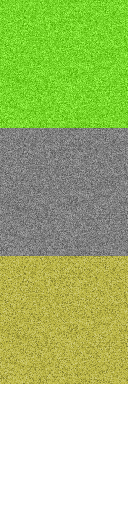
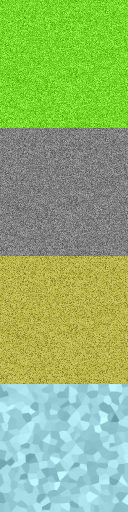
GameObject goes to mouse position on right click
Still an issue with clamping of GameObjects, they move while Terrain
stays still.

Changed region(s): [[0.0, 0.75, 1.0, 1.0]]

diff --git a/YARTS/Scene.cpp b/YARTS/Scene.cpp
@@ -1,11 +1,16 @@
 #include "Scene.h"
 
+GameObject *gameObject;
 
 Scene::Scene(void){
 	m_terrain = new Terrain();
 	m_bIsFocused = false;
 	m_cameraMan.m_position.x = MAX_MAP_WIDTH * TILE_SIZE * 0.5f - TILE_SIZE;
 	m_cameraMan.m_position.y = MAX_MAP_HEIGHT * TILE_SIZE * 0.5f - TILE_SIZE;
+
+	TextureManager::getInstance()->loadTexture("Data/Images/sheet1.png", "sfmlgame");
+	gameObject = new GameObject();
+	gameObject->load("sfmlgame", true, 128, 128, 4, 4);
 }
 
 Scene::~Scene(void){
@@ -14,33 +19,44 @@ Scene::~Scene(void){
 
 void Scene::update(float fDeltaTime){
 	m_terrain->update(fDeltaTime);
+	gameObject->update(fDeltaTime);
+
 	if(!m_bIsFocused){
 		m_cameraMan.update(fDeltaTime);
 		
 		m_terrain->move(-m_cameraMan.m_position.x, -m_cameraMan.m_position.y);
+		gameObject->move(-m_cameraMan.m_position.x, -m_cameraMan.m_position.y);
+		gameObject->m_targetPosition.x += -m_cameraMan.m_position.x;
+		gameObject->m_targetPosition.y += -m_cameraMan.m_position.y;
+
 		m_cameraMan.m_position.x = m_cameraMan.m_position.y = 0;	
 	}
-
 	clampCamera();
 }
 
 void Scene::draw(sf::RenderWindow& window){
 	m_terrain->draw(window);
+	gameObject->draw(window);
 }
 
 void Scene::clampCamera(){
 	float dx = 0, dy = 0;
-	if(m_terrain->grid[0][0]->m_sprite.getPosition().x > 0){
+	if(m_terrain->grid[0][0]->m_sprite.getPosition().x > 0)
+	{
 		dx = -m_terrain->grid[0][0]->m_sprite.getPosition().x;
 	}
-	else if(m_terrain->grid[MAX_MAP_WIDTH - 1][0]->m_sprite.getPosition().x + TILE_SIZE < WINDOW_WIDTH){
+	else if(m_terrain->grid[MAX_MAP_WIDTH - 1][0]->m_sprite.getPosition().x + TILE_SIZE < WINDOW_WIDTH)
+	{
 		dx = WINDOW_WIDTH - m_terrain->grid[MAX_MAP_WIDTH - 1][0]->m_sprite.getPosition().x - TILE_SIZE;
 	}
-	if(m_terrain->grid[0][0]->m_sprite.getPosition().y > 0){
+	if(m_terrain->grid[0][0]->m_sprite.getPosition().y > 0)
+	{
 		dy = -m_terrain->grid[0][0]->m_sprite.getPosition().y;
 	}
-	else if(m_terrain->grid[0][MAX_MAP_HEIGHT - 1]->m_sprite.getPosition().y + TILE_SIZE < WINDOW_HEIGHT){
+	else if(m_terrain->grid[0][MAX_MAP_HEIGHT - 1]->m_sprite.getPosition().y + TILE_SIZE < WINDOW_HEIGHT)
+	{
 		dy = WINDOW_HEIGHT - m_terrain->grid[0][MAX_MAP_HEIGHT - 1]->m_sprite.getPosition().y - TILE_SIZE;
 	}
+
 	m_terrain->move(dx, dy);
 }

diff --git a/YARTS/GameObject.cpp b/YARTS/GameObject.cpp
@@ -1,6 +1,8 @@
 #include "StdAfx.h"
 #include "GameObject.h"
 
+sf::Vector2i mousePosition;
+
 GameObject::GameObject(void)
 {
 }
@@ -11,18 +13,41 @@ GameObject::~GameObject(void)
 
 void GameObject::update(float fDeltaTime)
 {
-	rotate(fDeltaTime * 360);
-	if(sf::Mouse::isButtonPressed(sf::Mouse::Left)){
-		move(fDeltaTime * 400,0);
-	}
 	if(sf::Mouse::isButtonPressed(sf::Mouse::Right)){
-		move(fDeltaTime * -400,0);
-	}
+		m_targetPosition = sf::Vector2f(mousePosition.x, mousePosition.y);
+		m_direction = m_targetPosition - getPosition();
+		if(m_direction.x == 0 && m_direction.y == 0){
+			m_direction.y = 1;
+		}
+		normalizeVector(m_direction);
 
+		float newRot = asinf(m_direction.x) * 180 / PI;
+		if(m_direction.y > 0){	
+			newRot = 180 - newRot;
+		}
+		setRotation(newRot);
+	}
+	if(getDistance(m_targetPosition) > 10){
+		move(m_direction * 200.0f * fDeltaTime);
+	}
 	AnimatedSprite::update(fDeltaTime);
 }
 
 void GameObject::draw(sf::RenderWindow& window)
 {
 	AnimatedSprite::draw(window);
+	mousePosition = sf::Mouse::getPosition(window);
+}
+
+void GameObject::normalizeVector(sf::Vector2f &vector)
+{
+	float magnitude = std::sqrtf(vector.x * vector.x + vector.y * vector.y);
+	vector.x /= magnitude;
+	vector.y /= magnitude;
+}
+
+float GameObject::getDistance(sf::Vector2f other)
+{
+	sf::Vector2f vector = other - getPosition();
+	return std::sqrtf(vector.x * vector.x + vector.y * vector.y);
 }

diff --git a/YARTS/Terrain.cpp b/YARTS/Terrain.cpp
@@ -6,7 +6,7 @@ Terrain::Terrain(){
 	TextureManager::getInstance()->loadTexture("Data/Images/terrain.png", "terraintiles");
 	for(int x = 0; x < MAX_MAP_WIDTH; x++){
 		for(int y = 0; y < MAX_MAP_HEIGHT; y++){
-			grid[x][y] = new Tile((Tile::GroundType)(std::rand() % 3));
+			grid[x][y] = new Tile((Tile::GroundType)(std::rand() % GROUND_TYPES));
 			grid[x][y]->m_sprite.move(x * TILE_SIZE, y * TILE_SIZE);
 		}
 	}
@@ -31,6 +31,13 @@ void Terrain::update(float fDeltaTime){
 void Terrain::draw(sf::RenderWindow& window){
 	for(int x = 0; x < MAX_MAP_WIDTH; x++){
 		for(int y = 0; y < MAX_MAP_HEIGHT; y++){
+			sf::Vector2f position = grid[x][y]->m_sprite.getPosition();
+			if(position.x + TILE_SIZE < -1 ||
+			   position.y + TILE_SIZE < -1 ||
+			   position.x > WINDOW_WIDTH + 1 ||
+			   position.y > WINDOW_HEIGHT + 1){
+				continue;
+			}
 			grid[x][y]->draw(window);
 		}
 	}

diff --git a/YARTS/Game.cpp b/YARTS/Game.cpp
@@ -2,8 +2,6 @@
 #include "Game.h"
 #include "GameObject.h"
 
-GameObject *gameObject;
-
 Game::Game(void){
 }
 
@@ -12,10 +10,6 @@ Game::~Game(void){
 
 void Game::load(){
 	m_scene = new Scene();
-	TextureManager::getInstance()->loadTexture("Data/Images/sheet1.png", "sfmlgame");
-	gameObject = new GameObject();
-	gameObject->load("sfmlgame", true, 128, 128, 4, 4);
-	gameObject->move(400,300);
 }
 
 void Game::update(float fDeltaTime){

diff --git a/YARTS/GameObject.h b/YARTS/GameObject.h
@@ -10,4 +10,10 @@ public:
 
 	virtual void update(const float fDeltaTime);
 	virtual void draw(sf::RenderWindow&);
+
+	sf::Vector2f m_targetPosition;
+	sf::Vector2f m_direction;
+
+	void normalizeVector(sf::Vector2f &vector);
+	float getDistance(sf::Vector2f other);
 };

diff --git a/YARTS/definitions.h b/YARTS/definitions.h
@@ -6,6 +6,7 @@
 #define WINDOW_HEIGHT 600
 #define WINDOW_WIDTH 800
 #define TILE_SIZE 128
-#define MAX_MAP_WIDTH 8
-#define MAX_MAP_HEIGHT 8
+#define MAX_MAP_WIDTH 16
+#define MAX_MAP_HEIGHT 16
 #define CAMERA_SPEED 300
+#define GROUND_TYPES 4

diff --git a/YARTS/Tile.h b/YARTS/Tile.h
@@ -4,7 +4,7 @@
 class Tile
 {
 public:
-	enum GroundType {GRASS, STONE, DIRT};
+	enum GroundType {GRASS, STONE, DIRT, ICE};
 	Tile(GroundType type);
 	~Tile(void);
 
